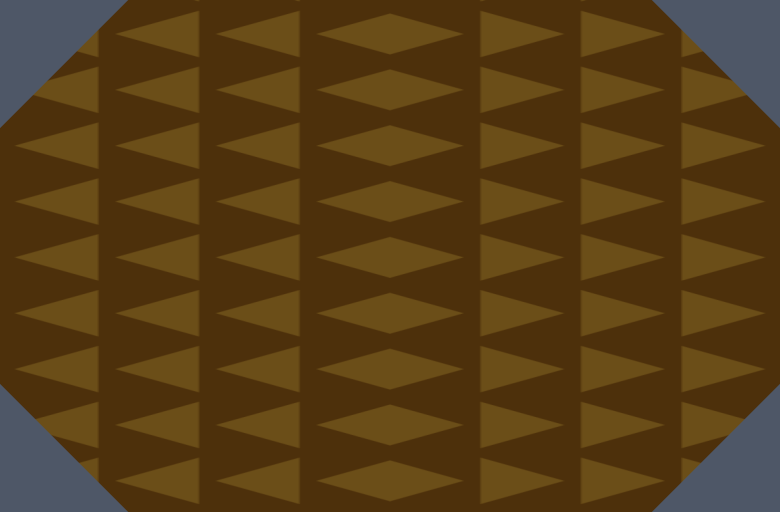
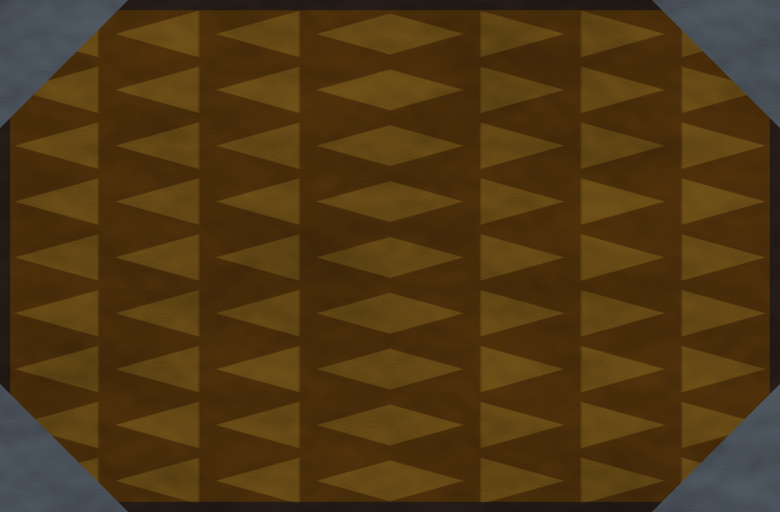
Differentiate temporary cards, update card art

diff --git a/index.js b/index.js
@@ -1,5 +1,5 @@
 import Deck from "./deck.js";
-let deck = new Deck(JSON.parse(localStorage.getItem('deck')));
+let deck = new Deck(JSON.parse(localStorage.getItem("deck")));
 let currentCard = null;
 let previousCard = null;
 let mostRecentCardDiv;
@@ -11,79 +11,81 @@ let backsideImg;
 let reminder;
 let blessCounter;
 let curseCounter;
-let emptyCardImage = 'GH_Trans.png';
-let backsideImage = 'GH_Backside.png';
+let emptyCardImage = "GH_Trans.png";
+let backsideImage = "GH_Backside.png";
 
 addEventListener("DOMContentLoaded", (event) => {
-    mostRecentCardDiv = document.getElementById('mostRecentCard');
-    mostRecentCardImg = document.getElementById('mostRecentCardImg');
-    secondMostRecentCardDiv = document.getElementById('secondMostRecentCard');
-    secondMostRecentCardImg = document.getElementById('secondMostRecentCardImg');
-    backsideDiv = document.getElementById('backsideDiv');
-    backsideImg = document.getElementById('backsideImg');
-    reminder = document.getElementById('reminderIcon');
-    blessCounter = document.getElementById('blessCounter');
-    curseCounter = document.getElementById('curseCounter');
-    [backsideDiv, mostRecentCardDiv, secondMostRecentCardDiv].forEach(div => div.addEventListener("click", e => {
-        drawNewCard();
-    }));
-    document.getElementById('reshuffleButton').addEventListener("click", e => {
-        reshuffle();
-        updateTexts();
-    });
-    document.getElementById('blessButton').addEventListener("click", e => {
-        deck.addCard('x2', 'GH_x2.png');updateTexts();
-        saveDeck();
-    });
-    document.getElementById('curseButton').addEventListener("click", e => {
-        deck.addCard('∅', 'GH_Null.png');updateTexts();
-        saveDeck();
-    });
-    currentCard = deck.discardPile[deck.discardPile.length - 1];
-    previousCard = deck.discardPile[deck.discardPile.length - 2];
+  mostRecentCardDiv = document.getElementById("mostRecentCard");
+  mostRecentCardImg = document.getElementById("mostRecentCardImg");
+  secondMostRecentCardDiv = document.getElementById("secondMostRecentCard");
+  secondMostRecentCardImg = document.getElementById("secondMostRecentCardImg");
+  backsideDiv = document.getElementById("backsideDiv");
+  backsideImg = document.getElementById("backsideImg");
+  reminder = document.getElementById("reminderIcon");
+  blessCounter = document.getElementById("blessCounter");
+  curseCounter = document.getElementById("curseCounter");
+  [backsideDiv, mostRecentCardDiv, secondMostRecentCardDiv].forEach((div) =>
+    div.addEventListener("click", (e) => {
+      drawNewCard();
+    })
+  );
+  document.getElementById("reshuffleButton").addEventListener("click", (e) => {
+    reshuffle();
     updateTexts();
+  });
+  document.getElementById("blessButton").addEventListener("click", (e) => {
+    deck.addCard("x2", "GH_Bless.png");
+    updateTexts();
+    saveDeck();
+  });
+  document.getElementById("curseButton").addEventListener("click", (e) => {
+    deck.addCard("∅", "GH_Curse.png");
+    updateTexts();
+    saveDeck();
+  });
+  currentCard = deck.discardPile[deck.discardPile.length - 1];
+  previousCard = deck.discardPile[deck.discardPile.length - 2];
+  updateTexts();
 });
 
 function drawNewCard() {
-    if (currentCard){
-        previousCard = currentCard;
-    }
-    currentCard = deck.drawCard();
-    updateTexts();
-    saveDeck();
+  if (currentCard) {
+    previousCard = currentCard;
+  }
+  currentCard = deck.drawCard();
+  updateTexts();
+  saveDeck();
 }
 
-function updateTexts(){
-    secondMostRecentCardImg.src = previousCard?.imgSrc ?? emptyCardImage;
-    if (currentCard === null) {
-        mostRecentCardImg.innerText = 'Deck empty';
-        mostRecentCardImg.src = emptyCardImage;
-    }
-    else{
-        mostRecentCardImg.
-        src = currentCard?.imgSrc ?? emptyCardImage;
-    }
-    backsideImg.src = deck.deck.length > 0 ? backsideImage : emptyCardImage;
-    blessCounter.innerText = deck.countBlesses();
-    curseCounter.innerText = deck.countCurses();
-
-    if (deck.shouldReshuffle) {
-        reminder.classList.remove('inactive');
-    }
-}
-
-function reshuffle(){
-    deck.reshuffleDeck();
-    secondMostRecentCardImg.src = emptyCardImage;
+function updateTexts() {
+  secondMostRecentCardImg.src = previousCard?.imgSrc ?? emptyCardImage;
+  if (currentCard === null) {
+    mostRecentCardImg.innerText = "Deck empty";
     mostRecentCardImg.src = emptyCardImage;
-    reminder.classList.add('inactive');
-    blessCounter.innerText = deck.countBlesses();
-    curseCounter.innerText = deck.countCurses();
-    currentCard = null;
-    previousCard = null;
-    saveDeck();
+  } else {
+    mostRecentCardImg.src = currentCard?.imgSrc ?? emptyCardImage;
+  }
+  backsideImg.src = deck.deck.length > 0 ? backsideImage : emptyCardImage;
+  blessCounter.innerText = deck.countBlesses();
+  curseCounter.innerText = deck.countCurses();
+
+  if (deck.shouldReshuffle) {
+    reminder.classList.remove("inactive");
+  }
+}
+
+function reshuffle() {
+  deck.reshuffleDeck();
+  secondMostRecentCardImg.src = emptyCardImage;
+  mostRecentCardImg.src = emptyCardImage;
+  reminder.classList.add("inactive");
+  blessCounter.innerText = deck.countBlesses();
+  curseCounter.innerText = deck.countCurses();
+  currentCard = null;
+  previousCard = null;
+  saveDeck();
 }
 
 function saveDeck() {
-    localStorage.setItem('deck', JSON.stringify(deck));
+  localStorage.setItem("deck", JSON.stringify(deck));
 }

diff --git a/README.md b/README.md
@@ -1,1 +1,3 @@
-A quick website to use as the monster attack deck when playing gloomhaven
+A quick website to use as the monster attack deck when playing Gloomhaven
+
+Card art by Rasmus Lönnkvist
